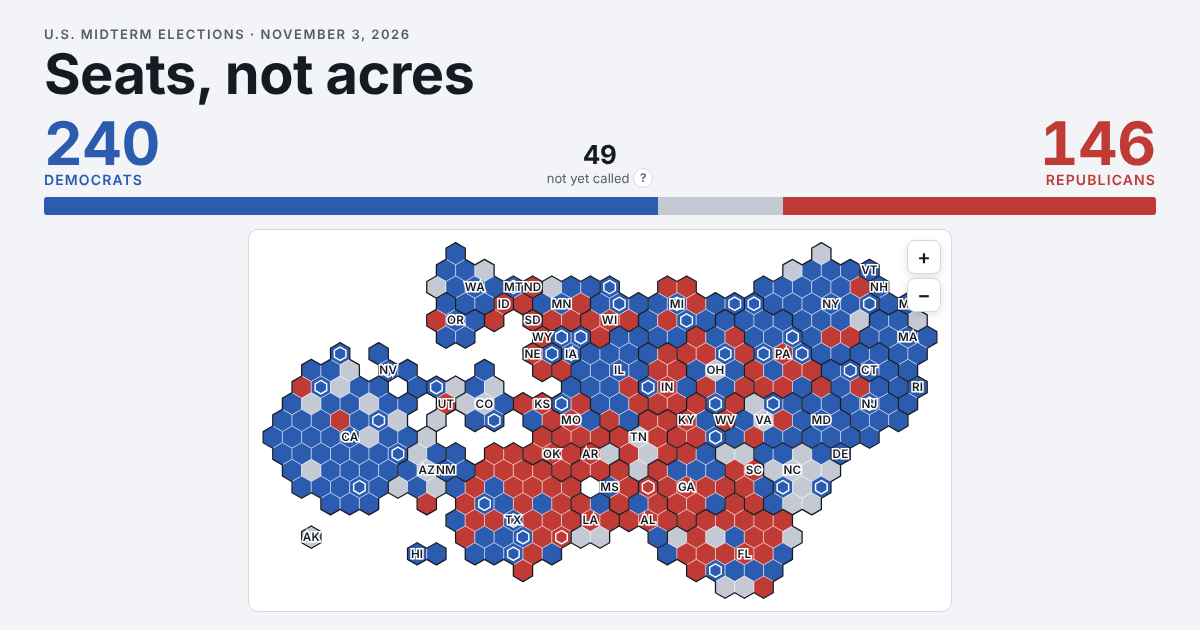
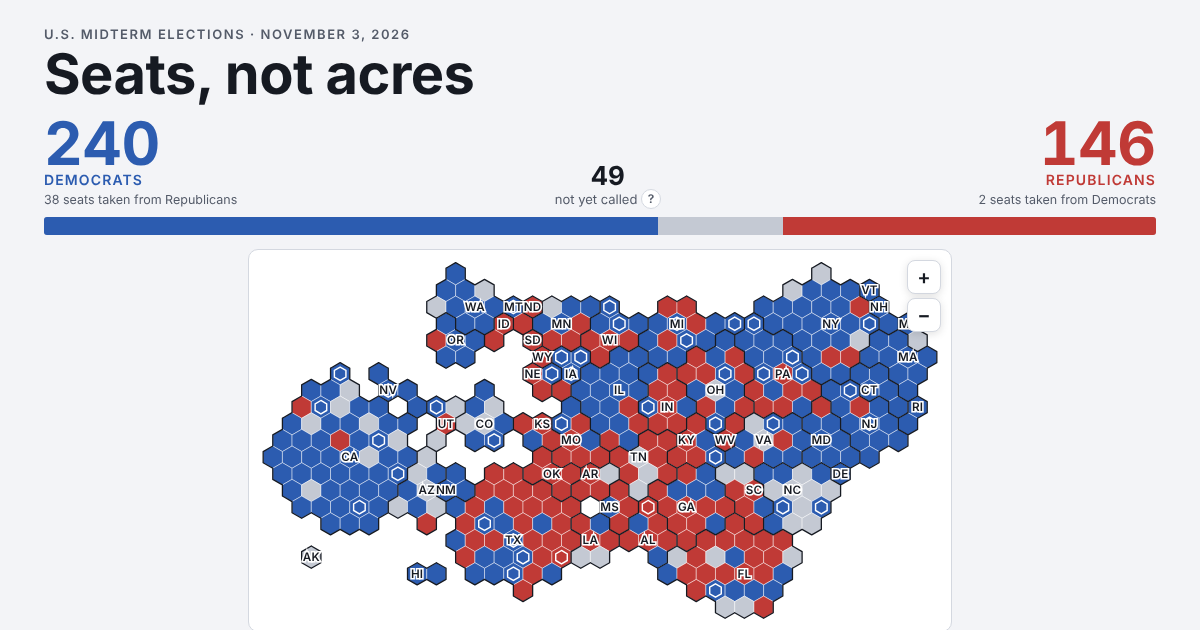
Keep the tally board still across offices; changed-party filter as a switch
House now shows seats taken from the other party under each total, so the
board has the same height in every view; bar segments slide to new widths.

Claude-Session: https://claude.ai/code/session_01UUbczqLY6uwX8SJSFnkFXJ

Changed region(s): [[0.0308, 0.2111, 0.9867, 0.9952]]

diff --git a/docs/index.html b/docs/index.html
@@ -402,6 +402,26 @@ details.notes summary { padding: 12px 0 8px; font: 600 13px var(--body); letter-
   #tip:not([hidden]), .state-card:not([hidden]), .zoom-out:not([hidden]), .final-banner:not([hidden]) { animation: none; }
   ::view-transition-group(*), ::view-transition-old(*), ::view-transition-new(*) { animation: none !important; }
 }
+
+/* ---------- steady tally board + changed-party switch ---------- */
+/* The line under each number is always there (House shows seats taken from the other
+   party), so the board never changes height when switching offices. */
+.side .sub, .side .sub:empty { display: block; min-height: 1.3em; }
+.bar span { transition: width .45s cubic-bezier(.3,.7,.2,1); }
+/* "Only show these on the map": a small on/off switch. The label never changes,
+   so the line doesn't reflow; the switch itself shows on or off. */
+.flip-switch { display: inline-flex; align-items: center; gap: 7px; padding: 3px 10px 3px 4px; border: 1px solid var(--rule);
+  border-radius: 999px; background: var(--panel); color: var(--ink); font: 500 13px/1.4 var(--body); cursor: pointer;
+  transition: border-color .2s, background-color .2s; }
+.flip-switch:hover { border-color: var(--ink-2); }
+.flip-switch .track { position: relative; box-sizing: border-box; width: 28px; height: 16px; border-radius: 999px;
+  border: 1.5px solid var(--ink-2); background: transparent; transition: background-color .2s, border-color .2s; }
+.flip-switch .track::after { content: ""; position: absolute; top: 2px; left: 2px; width: 9px; height: 9px; border-radius: 50%;
+  background: var(--ink-2); transition: transform .2s cubic-bezier(.3,.7,.2,1), background-color .2s; }
+.flip-switch[aria-pressed="true"] { border-color: var(--ink); }
+.flip-switch[aria-pressed="true"] .track { background: var(--ink); border-color: var(--ink); }
+.flip-switch[aria-pressed="true"] .track::after { transform: translateX(12px); background: var(--paper); }
+@media (prefers-reduced-motion: reduce) { .flip-switch, .flip-switch .track, .flip-switch .track::after, .bar span { transition: none; } }
 </style>
 
 <main class="wrap">
@@ -463,7 +483,7 @@ details.notes summary { padding: 12px 0 8px; font: 600 13px var(--body); letter-
     <p class="status"><span id="status"></span> <button type="button" class="q" data-term="majority" aria-label="What is a majority?">?</button></p>
     <p class="status" id="held-note" hidden></p>
     <p class="status changes"><span id="changes"></span> <button type="button" class="q" data-term="gain" aria-label="What counts as changing party?">?</button>
-      <button type="button" class="linkish" id="show-flips" aria-pressed="false">Show them on the map</button></p>
+      <button type="button" class="flip-switch" id="show-flips" aria-pressed="false"><span class="track" aria-hidden="true"></span>Only show these on the map</button></p>
     <p class="status asof">Results as of <span data-updated>…</span>, from Wikipedia's results pages (sources below).</p>
   </section>
 
@@ -945,10 +965,16 @@ function drawTally() {
   countTo(document.getElementById("d-num"), D);
   countTo(document.getElementById("r-num"), R);
   countTo(document.getElementById("u-num"), t.pending);
-  // The House number is just races won, so no sub-line; Senate and governor totals add seats not up.
-  const sub = (won, held) => (view === "house" ? "" : `${won} won Tuesday + ${held} not up`);
-  document.getElementById("d-sub").textContent = sub(t.won.D, t.held.D);
-  document.getElementById("r-sub").textContent = sub(t.won.R, t.held.R);
+  // Every view has a line under each number, so the board keeps the same height when
+  // switching. Senate and governor totals add seats not up; the House line says how
+  // many seats each party took from the other.
+  const gains = { D: 0, R: 0 };
+  for (const r of racesFor(VIEWS[view].office)) if (r.flip && r.winner in gains) gains[r.winner]++;
+  const from = { D: "Republicans", R: "Democrats" };
+  const sub = (p) => view !== "house" ? `${t.won[p]} won Tuesday + ${t.held[p]} not up`
+    : gains[p] ? `${gains[p]} seat${gains[p] > 1 ? "s" : ""} taken from ${from[p]}` : `No seats taken from ${from[p]}`;
+  document.getElementById("d-sub").textContent = sub("D");
+  document.getElementById("r-sub").textContent = sub("R");
   // Senate and governor totals include seats with no race this year.
   const note = document.getElementById("held-note");
   const notUp = t.held.D + t.held.R;
@@ -958,13 +984,13 @@ function drawTally() {
     `. <button type="button" class="q" data-term="notup" aria-label="Why are some seats not up?">?</button>`;
   note.hidden = view === "house";
 
+  // The five segments are made once and only their widths change, so switching
+  // views slides them to the new sizes instead of redrawing the bar.
   const bar = document.getElementById("bar");
-  bar.innerHTML =
-    `<span class="d hold" style="width:${pct(t.held.D)}"></span>` +
-    `<span class="d" style="width:${pct(t.won.D)}"></span>` +
-    `<span class="u" style="width:${pct(t.pending + t.won.other)}"></span>` +
-    `<span class="r" style="width:${pct(t.won.R)}"></span>` +
-    `<span class="r hold" style="width:${pct(t.held.R)}"></span>`;
+  if (bar.children.length !== 5)
+    bar.innerHTML = ["d hold", "d", "u", "r", "r hold"].map((c) => `<span class="${c}"></span>`).join("");
+  [t.held.D, t.won.D, t.pending + t.won.other, t.won.R, t.held.R]
+    .forEach((n, i) => { bar.children[i].style.width = pct(n); });
   bar.setAttribute("aria-label", `Democrats ${D}, not yet called ${t.pending}, Republicans ${R}, of ${t.seats}`);
 
   const tick = document.getElementById("tick");
@@ -1295,7 +1321,6 @@ function drawChanges() {
   document.getElementById("changes").innerHTML = text;
   const btn = document.getElementById("show-flips");
   btn.hidden = !n;
-  btn.textContent = flipsOnly ? "Show all seats again" : "Show them on the map";
   btn.setAttribute("aria-pressed", String(flipsOnly));
 }
 

diff --git a/web/app.js b/web/app.js
@@ -420,10 +420,16 @@ function drawTally() {
   countTo(document.getElementById("d-num"), D);
   countTo(document.getElementById("r-num"), R);
   countTo(document.getElementById("u-num"), t.pending);
-  // The House number is just races won, so no sub-line; Senate and governor totals add seats not up.
-  const sub = (won, held) => (view === "house" ? "" : `${won} won Tuesday + ${held} not up`);
-  document.getElementById("d-sub").textContent = sub(t.won.D, t.held.D);
-  document.getElementById("r-sub").textContent = sub(t.won.R, t.held.R);
+  // Every view has a line under each number, so the board keeps the same height when
+  // switching. Senate and governor totals add seats not up; the House line says how
+  // many seats each party took from the other.
+  const gains = { D: 0, R: 0 };
+  for (const r of racesFor(VIEWS[view].office)) if (r.flip && r.winner in gains) gains[r.winner]++;
+  const from = { D: "Republicans", R: "Democrats" };
+  const sub = (p) => view !== "house" ? `${t.won[p]} won Tuesday + ${t.held[p]} not up`
+    : gains[p] ? `${gains[p]} seat${gains[p] > 1 ? "s" : ""} taken from ${from[p]}` : `No seats taken from ${from[p]}`;
+  document.getElementById("d-sub").textContent = sub("D");
+  document.getElementById("r-sub").textContent = sub("R");
   // Senate and governor totals include seats with no race this year.
   const note = document.getElementById("held-note");
   const notUp = t.held.D + t.held.R;
@@ -433,13 +439,13 @@ function drawTally() {
     `. <button type="button" class="q" data-term="notup" aria-label="Why are some seats not up?">?</button>`;
   note.hidden = view === "house";
 
+  // The five segments are made once and only their widths change, so switching
+  // views slides them to the new sizes instead of redrawing the bar.
   const bar = document.getElementById("bar");
-  bar.innerHTML =
-    `<span class="d hold" style="width:${pct(t.held.D)}"></span>` +
-    `<span class="d" style="width:${pct(t.won.D)}"></span>` +
-    `<span class="u" style="width:${pct(t.pending + t.won.other)}"></span>` +
-    `<span class="r" style="width:${pct(t.won.R)}"></span>` +
-    `<span class="r hold" style="width:${pct(t.held.R)}"></span>`;
+  if (bar.children.length !== 5)
+    bar.innerHTML = ["d hold", "d", "u", "r", "r hold"].map((c) => `<span class="${c}"></span>`).join("");
+  [t.held.D, t.won.D, t.pending + t.won.other, t.won.R, t.held.R]
+    .forEach((n, i) => { bar.children[i].style.width = pct(n); });
   bar.setAttribute("aria-label", `Democrats ${D}, not yet called ${t.pending}, Republicans ${R}, of ${t.seats}`);
 
   const tick = document.getElementById("tick");
@@ -770,7 +776,6 @@ function drawChanges() {
   document.getElementById("changes").innerHTML = text;
   const btn = document.getElementById("show-flips");
   btn.hidden = !n;
-  btn.textContent = flipsOnly ? "Show all seats again" : "Show them on the map";
   btn.setAttribute("aria-pressed", String(flipsOnly));
 }
 

diff --git a/web/style.css b/web/style.css
@@ -383,3 +383,23 @@ details.notes summary { padding: 12px 0 8px; font: 600 13px var(--body); letter-
   #tip:not([hidden]), .state-card:not([hidden]), .zoom-out:not([hidden]), .final-banner:not([hidden]) { animation: none; }
   ::view-transition-group(*), ::view-transition-old(*), ::view-transition-new(*) { animation: none !important; }
 }
+
+/* ---------- steady tally board + changed-party switch ---------- */
+/* The line under each number is always there (House shows seats taken from the other
+   party), so the board never changes height when switching offices. */
+.side .sub, .side .sub:empty { display: block; min-height: 1.3em; }
+.bar span { transition: width .45s cubic-bezier(.3,.7,.2,1); }
+/* "Only show these on the map": a small on/off switch. The label never changes,
+   so the line doesn't reflow; the switch itself shows on or off. */
+.flip-switch { display: inline-flex; align-items: center; gap: 7px; padding: 3px 10px 3px 4px; border: 1px solid var(--rule);
+  border-radius: 999px; background: var(--panel); color: var(--ink); font: 500 13px/1.4 var(--body); cursor: pointer;
+  transition: border-color .2s, background-color .2s; }
+.flip-switch:hover { border-color: var(--ink-2); }
+.flip-switch .track { position: relative; box-sizing: border-box; width: 28px; height: 16px; border-radius: 999px;
+  border: 1.5px solid var(--ink-2); background: transparent; transition: background-color .2s, border-color .2s; }
+.flip-switch .track::after { content: ""; position: absolute; top: 2px; left: 2px; width: 9px; height: 9px; border-radius: 50%;
+  background: var(--ink-2); transition: transform .2s cubic-bezier(.3,.7,.2,1), background-color .2s; }
+.flip-switch[aria-pressed="true"] { border-color: var(--ink); }
+.flip-switch[aria-pressed="true"] .track { background: var(--ink); border-color: var(--ink); }
+.flip-switch[aria-pressed="true"] .track::after { transform: translateX(12px); background: var(--paper); }
+@media (prefers-reduced-motion: reduce) { .flip-switch, .flip-switch .track, .flip-switch .track::after, .bar span { transition: none; } }

diff --git a/web/index.html b/web/index.html
@@ -70,7 +70,7 @@
     <p class="status"><span id="status"></span> <button type="button" class="q" data-term="majority" aria-label="What is a majority?">?</button></p>
     <p class="status" id="held-note" hidden></p>
     <p class="status changes"><span id="changes"></span> <button type="button" class="q" data-term="gain" aria-label="What counts as changing party?">?</button>
-      <button type="button" class="linkish" id="show-flips" aria-pressed="false">Show them on the map</button></p>
+      <button type="button" class="flip-switch" id="show-flips" aria-pressed="false"><span class="track" aria-hidden="true"></span>Only show these on the map</button></p>
     <p class="status asof">Results as of <span data-updated>…</span>, from Wikipedia's results pages (sources below).</p>
   </section>
 
